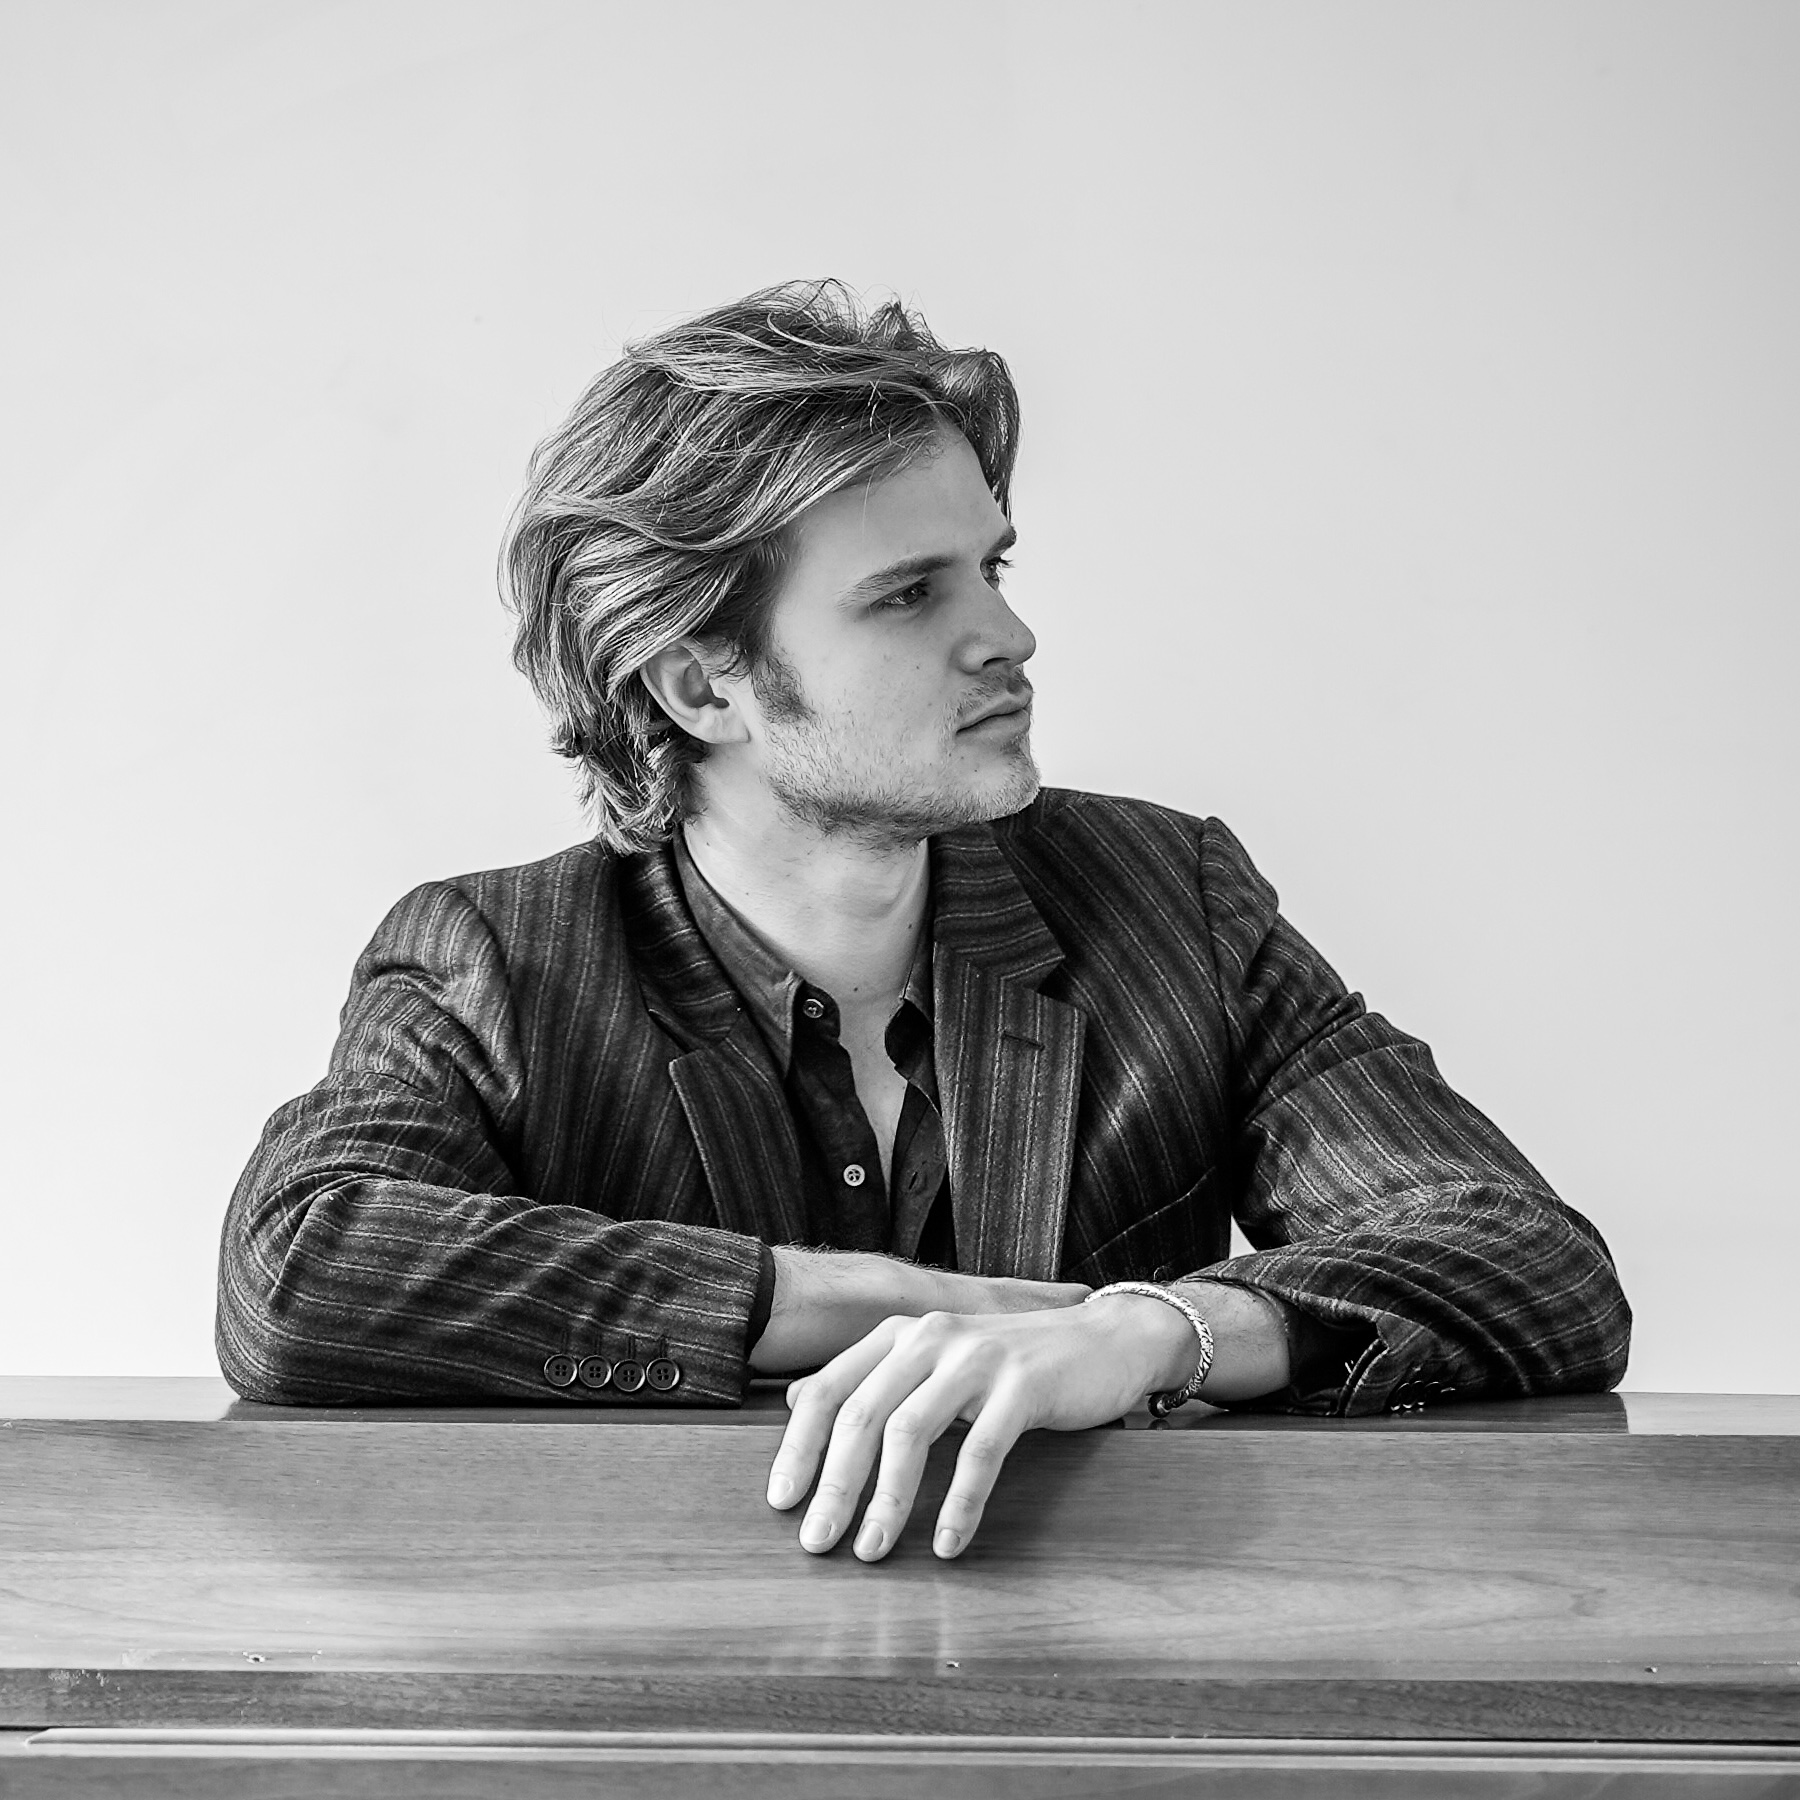
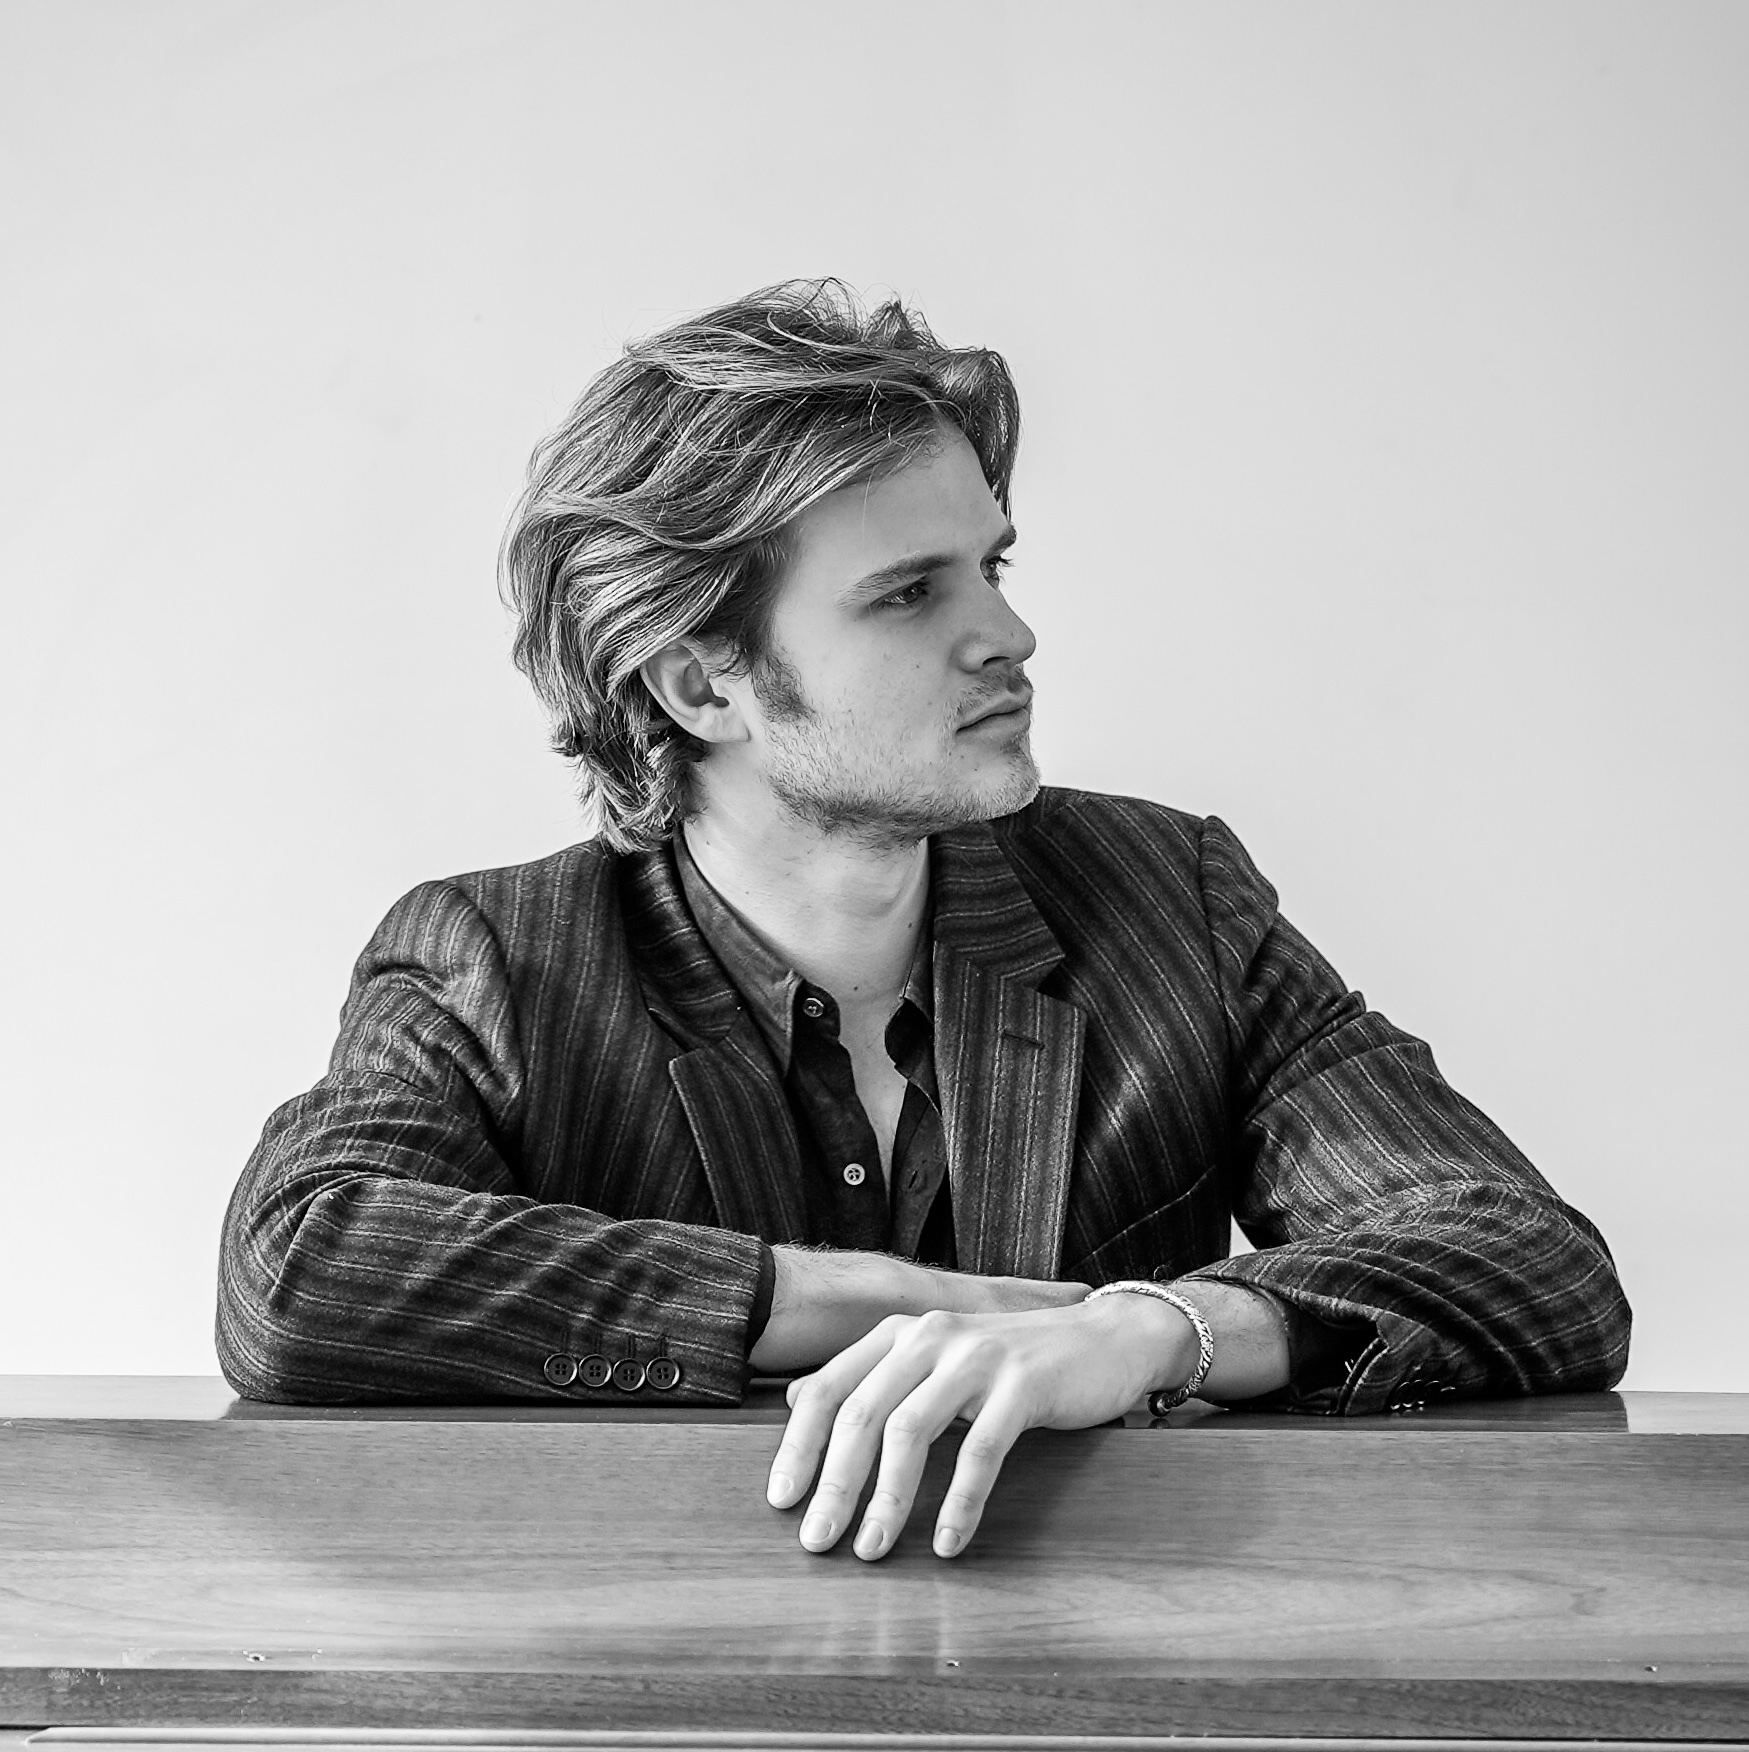
Added Links page, updated bio and About Me image

Changed region(s): [[0.0, 0.1541, 1.0, 1.0]]

diff --git a/src/Links/Links.css b/src/Links/Links.css
@@ -1,0 +1,179 @@
+.LinksContainer {
+    min-height: 100vh;
+    background: rgba(223, 223, 223);
+    display: flex;
+    justify-content: center;
+    align-items: center;
+    padding: 2rem 1rem;
+}
+
+.LinksContent {
+    max-width: 680px;
+    width: 100%;
+    padding: 2rem 0;
+}
+
+/* Profile Section */
+.ProfileSection {
+    text-align: center;
+    margin-bottom: 2.5rem;
+    animation: fadeInDown 0.6s ease-out;
+}
+
+.ProfileImage {
+    width: 480px;
+    height: 480px;
+    margin: 0 auto 1.5rem;
+    position: relative;
+    /* border: 4px solid white; */
+    /* box-shadow: 0 8px 16px rgba(0, 0, 0, 0.2); */
+}
+
+.ProfileImage::after {
+    content: '';
+    position: absolute;
+    top: 0;
+    left: 0;
+    right: 0;
+    bottom: 0;
+    background:
+        linear-gradient(to bottom, rgba(223, 223, 223, 0.8) 0%, transparent 15%),
+        linear-gradient(to right, rgba(223, 223, 223, 0.8) 0%, transparent 15%),
+        linear-gradient(to left, rgba(223, 223, 223, 0.8) 0%, transparent 15%),
+        radial-gradient(ellipse at top, transparent 0%, transparent 40%, rgba(223, 223, 223, 0.6) 70%, rgba(223, 223, 223, 0.9) 80%, rgba(223, 223, 223) 90%);
+    pointer-events: none;
+}
+
+.ProfileImage img {
+    width: 100%;
+    height: 100%;
+    object-fit: cover;
+    display: block;
+}
+
+.ProfileName {
+    font-family: var(--title-font, 'Proxima-Nova', sans-serif);
+    font-size: 2.5rem;
+    color: rgb(83, 83, 83);
+    margin: 0 0 0.5rem 0;
+    font-weight: 700;
+}
+
+.ProfileBio {
+    font-family: var(--text-font, 'proxima-nova', sans-serif);
+    font-size: 1.1rem;
+    color: rgb(83, 83, 83, 0.9);
+    margin: 0;
+}
+
+/* Links Grid */
+.LinksGrid {
+    display: flex;
+    flex-direction: column;
+    gap: 1rem;
+    margin-bottom: 2rem;
+}
+
+.LinkCard {
+    text-decoration: none;
+    display: block;
+    animation: fadeInUp 0.6s ease-out backwards;
+}
+
+.LinkCard:nth-child(1) { animation-delay: 0.1s; }
+.LinkCard:nth-child(2) { animation-delay: 0.15s; }
+.LinkCard:nth-child(3) { animation-delay: 0.2s; }
+.LinkCard:nth-child(4) { animation-delay: 0.25s; }
+.LinkCard:nth-child(5) { animation-delay: 0.3s; }
+.LinkCard:nth-child(6) { animation-delay: 0.35s; }
+
+.LinkCardContent {
+    background: rgba(255, 255, 255, 0.95);
+    backdrop-filter: blur(10px);
+    border-radius: 12px;
+    padding: 1.25rem 2rem;
+    text-align: center;
+    transition: all 0.3s ease;
+    border: 2px solid transparent;
+    box-shadow: 0 4px 6px rgba(0, 0, 0, 0.1);
+}
+
+.LinkCard:hover .LinkCardContent {
+    transform: translateY(-4px);
+    box-shadow: 0 12px 24px rgba(0, 0, 0, 0.15);
+    border-color: rgba(255, 255, 255, 1);
+    background: rgba(255, 255, 255, 1);
+}
+
+.LinkTitle {
+    font-family: var(--text-font, 'proxima-nova', sans-serif);
+    font-size: 1.1rem;
+    font-weight: 600;
+    color: #333;
+    display: block;
+}
+
+/* Footer */
+.LinksFooter {
+    text-align: center;
+    margin-top: 3rem;
+    padding-top: 2rem;
+}
+
+.LinksFooter p {
+    font-family: var(--text-font, 'proxima-nova', sans-serif);
+    font-size: 0.9rem;
+    color: rgba(255, 255, 255, 0.7);
+    margin: 0;
+}
+
+/* Animations */
+@keyframes fadeInDown {
+    from {
+        opacity: 0;
+        transform: translateY(-20px);
+    }
+    to {
+        opacity: 1;
+        transform: translateY(0);
+    }
+}
+
+@keyframes fadeInUp {
+    from {
+        opacity: 0;
+        transform: translateY(20px);
+    }
+    to {
+        opacity: 1;
+        transform: translateY(0);
+    }
+}
+
+/* Responsive Design */
+@media only screen and (max-width: 768px) {
+    .LinksContainer {
+        padding: 1rem 0.5rem;
+    }
+
+    .ProfileName {
+        font-size: 2rem;
+    }
+
+    .ProfileBio {
+        font-size: 1rem;
+    }
+
+    .ProfileImage {
+        width: 200px;
+        height: 200px;
+    }
+
+    .LinkCardContent {
+        padding: 1rem 1.5rem;
+    }
+
+    .LinkTitle {
+        font-size: 1rem;
+    }
+}

diff --git a/src/Links/Links.js b/src/Links/Links.js
@@ -1,0 +1,73 @@
+import React from 'react';
+import { ExternalLink } from 'react-external-link';
+import './Links.css';
+import HEADSHOT from "../images/LeoHeadshot.jpg";
+
+const Links = () => {
+    return (
+        <div className="LinksContainer">
+            <div className="LinksContent">
+                {/* Profile Section */}
+                <div className="ProfileSection">
+                    <div className="ProfileImage">
+                        <img src={HEADSHOT} alt="Profile" />
+                    </div>
+                    <h1 className="ProfileName">Léo Dupire</h1>
+                    <p className="ProfileBio">Inquisitive Rock</p>
+                </div>
+
+                {/* Links Grid */}
+                <div className="LinksGrid">
+                    <ExternalLink href="https://www.leodupire.com/music" className="LinkCard">
+                        <div className="LinkCardContent">
+                            <span className="LinkTitle">leodupire.com</span>
+                        </div>
+                    </ExternalLink>
+
+                    <ExternalLink href="https://open.spotify.com/artist/6MWqDuBRRboYW6GSI5K0Up?si=AFPdh4pUQtSH_gJ_1pkUZQ" className="LinkCard">
+                        <div className="LinkCardContent">
+                            <span className="LinkTitle">Listen on Spotify</span>
+                        </div>
+                    </ExternalLink>
+
+                    <ExternalLink href="https://music.apple.com/us/artist/l%C3%A9o-dupire/1794428651" className="LinkCard">
+                        <div className="LinkCardContent">
+                            <span className="LinkTitle">Listen on Apple</span>
+                        </div>
+                    </ExternalLink>
+
+                    <ExternalLink href="https://www.instagram.com/leo.dupire" className="LinkCard">
+                        <div className="LinkCardContent">
+                            <span className="LinkTitle">Instagram</span>
+                        </div>
+                    </ExternalLink>
+
+                    <ExternalLink href="https://www.tiktok.com/@leo.dupire" className="LinkCard">
+                        <div className="LinkCardContent">
+                            <span className="LinkTitle">TikTok</span>
+                        </div>
+                    </ExternalLink>
+
+                    <ExternalLink href="https://www.youtube.com/@leo.dupire" className="LinkCard">
+                        <div className="LinkCardContent">
+                            <span className="LinkTitle">YouTube</span>
+                        </div>
+                    </ExternalLink>
+
+                    <ExternalLink href="mailto:leo@leodupire.com" className="LinkCard">
+                        <div className="LinkCardContent">
+                            <span className="LinkTitle">Contact</span>
+                        </div>
+                    </ExternalLink>
+                </div>
+
+                {/* Footer */}
+                <div className="LinksFooter">
+                    <p>© 2026 Léo Dupire</p>
+                </div>
+            </div>
+        </div>
+    );
+}
+
+export default Links;

diff --git a/src/Music/Music.js b/src/Music/Music.js
@@ -274,11 +274,11 @@ const Music = () => {
                             {/* rgb(127 163 176) */}
                             <div className='songs'>
                                 <div className='divider2'></div>
-                                <p className='bioText'>Originally from a medieval village on the French Riviera before moving to NYC, Léo Dupire grew up in a multicultural setting (his father a musically inclined French mathematician and his mother a Swedish force of creative & artistic expression). <br></br><br></br>
+                                <p className='bioText'>Emerging from a French medieval village and plunged into NYC at a young age, this French-Swedish artist brings a world of musical diversity to his earthy rock flavor. Léo Dupire is a playful experimentalist, creating immersive atmospheres for rebellious inquisition with a philosophical tang. <br></br><br></br>
 
-                                                       Dupire’s music is grounded in self-reflection, nostalgia, and rebellion, exploring the depths of alternative & indie rock. His varying style is often compared to that of Hozier, Radiohead, Jeff Buckley, Queen - to name a few. That being said, you’ll never know what to expect next; Léo Dupire loves to explore different sounds and goes where he finds meaning. <br></br><br></br>
+                                                        Dupire's work is reminiscent of artists like Hozier, Jeff Buckley, and Radiohead, keeping sincerity at the forefront of his work. <br></br><br></br>
 
-                                                       Léo Dupire is also a passionate scientist, applying Artificial Intelligence to Cancer Research. Learn more at <a href="https://leodupire.com" target="_blank" style={{ color: "rgb(39, 164, 210)" }}>leodupire.com</a>.
+                                                        Léo Dupire is also a passionate scientist, applying AI to Cancer Research. Learn more at <a href="https://leodupire.com" target="_blank" style={{ color: "rgb(39, 164, 210)" }}>leodupire.com</a>.
                                 </p>
                                 <div className='divider2'></div>
                             </div>
@@ -328,6 +328,9 @@ const Music = () => {
                                         alt="Email Image"
                                     />
                                 </a>
+                            </div>
+                            <div className="LinksFooter" style={{marginTop: 0}}>
+                                <p>© 2026 Léo Dupire</p>
                             </div>
                         </div>
                     </div>

diff --git a/src/App+/App.js b/src/App+/App.js
@@ -12,6 +12,7 @@ import Portfolio from "../Portfolio/Portfolio.js";
 import Portfolio2 from "../Portfolio2/Portfolio2.js";
 import Music from "../Music/Music.js";
 import Menu from '../Menu/Menu.js';
+import Links from '../Links/Links.js';
 
 
 function App() {
@@ -64,6 +65,12 @@ function App() {
         <Route path="/music" element={
           <div>
             <Music />
+            {/* <Footer /> */}
+          </div>
+        } />
+        <Route path="/links" element={
+          <div>
+            <Links />
             {/* <Footer /> */}
           </div>
         } />

diff --git a/src/Home/Home.js b/src/Home/Home.js
@@ -294,7 +294,7 @@ const Home = () => {
             <div className="body" id="Home">
                 <div className="bodiv">
                     <h2 className="Home" id="aboutme">About me</h2>
-                    <h3 id="Home">Who I am</h3>
+                    {/* <h3 id="Home">Who I am</h3> */}
                     <div className="CenterLeo">
                         <img
                             className="LeoImg"

diff --git a/src/Home/Home.css b/src/Home/Home.css
@@ -221,9 +221,10 @@ h3#Home {
 }
 
 .LeoImg {
-    padding: min(0.75vw, 0.5rem);
+    /* padding: min(0.75vw, 0.5rem); */
     border-radius: 50%;
-    width: calc(var(--exhibit-height)/1.25);
+    /* width: calc(var(--exhibit-height)/1.25); */
+    width: calc(var(--exhibit-height)/1.125);
 }
 
 p#Home {
